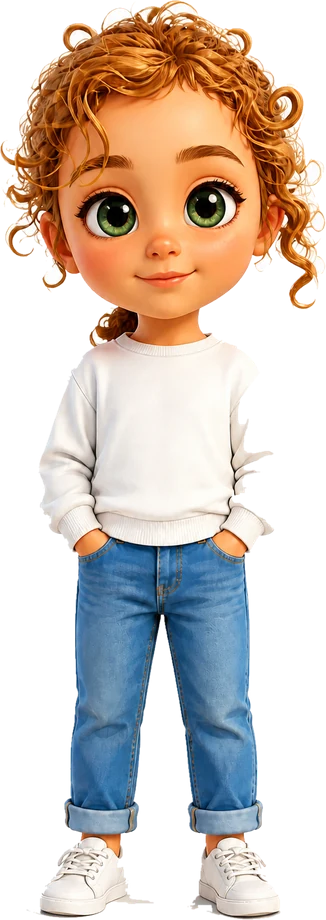
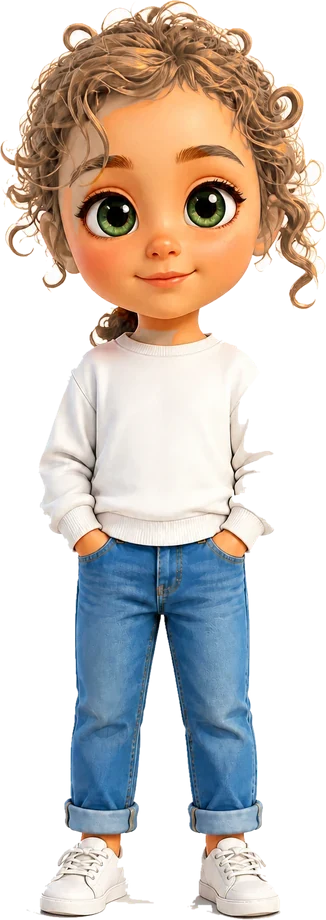
Stefania con i capelli castano chiaro
Claude-Session: https://claude.ai/code/session_01YRvwTWgNLV5MGN3ARVub2Q

diff --git a/index.html b/index.html
@@ -562,7 +562,7 @@ function setupPanel(){
   var own=takenSet(null);
   return '<div class="panel"><h3>Nomi della classe</h3><p class="note" style="text-align:left;margin:6px 0 14px">Scrivi il nome di ogni bambino sotto la sua caricatura. A ogni nuovo nome l\'app crea anche il suo codice d\'accesso.</p><div class="sgrid">'+C.CHARS.map(function(c,i){
     var v=ST.setupVals[c.k];if(v===undefined)v=own[c.k]?own[c.k].n:"";
-    return '<div class="sc"><img src="img/'+c.k+'.webp?v=3d1" alt="Caricatura '+(i+1)+'"><label class="l" for="nm_'+c.k+'">Caricatura '+(i+1)+'</label><input type="text" id="nm_'+c.k+'" data-k="'+c.k+'" maxlength="30" autocomplete="off" value="'+esc(v)+'"></div>';
+    return '<div class="sc"><img src="img/'+c.k+'.webp?v=3d2" alt="Caricatura '+(i+1)+'"><label class="l" for="nm_'+c.k+'">Caricatura '+(i+1)+'</label><input type="text" id="nm_'+c.k+'" data-k="'+c.k+'" maxlength="30" autocomplete="off" value="'+esc(v)+'"></div>';
   }).join("")+'</div><div class="row" style="margin-top:16px"><button class="btn pri" data-act="setupsave">Salva i nomi</button></div></div>';
 }
 /* ---------- pagine per materia ---------- */

diff --git a/cuccioli.js b/cuccioli.js
@@ -116,7 +116,7 @@ function capeSvg(c){return '<svg viewBox="0 0 60 80" preserveAspectRatio="none" 
 function wingsSvg(c){var w='<path d="M58 30C40 4 12 0 2 8C14 14 10 26 22 30C10 36 18 50 34 46C42 44 52 38 58 30Z" fill="'+c+'" stroke="#fff" stroke-width="2" opacity=".85"/><path d="M50 30C38 18 24 14 14 16M48 32C38 34 30 38 24 42" fill="none" stroke="#fff" stroke-width="1.5" opacity=".7"/>';return '<svg viewBox="0 0 120 60" aria-hidden="true">'+w+'<g transform="translate(120 0) scale(-1 1)">'+w+'</g></svg>'}
 function pct(v){return (Math.round(v*10)/10)+"%"}
 function box(l,t,w,h){return "left:"+pct(l)+";top:"+pct(t)+";width:"+pct(w)+(h!=null?";height:"+pct(h):"")}
-C.img=function(sp){return (C.base||"")+"img/"+sp+".webp"+(/^c\d\d$/.test(sp)?"?v=3d1":"")};
+C.img=function(sp){return (C.base||"")+"img/"+sp+".webp"+(/^c\d\d$/.test(sp)?"?v=3d2":"")};
 
 /* opts: stage, subj (costume; null = nessun costume; se assente usa l'ultima materia), powers (false per spegnerli) */
 /* ritratti in costume per materia, per singolo alunno (caricatura: {materia:[file, larghezza, centro testa, scena]}) */
